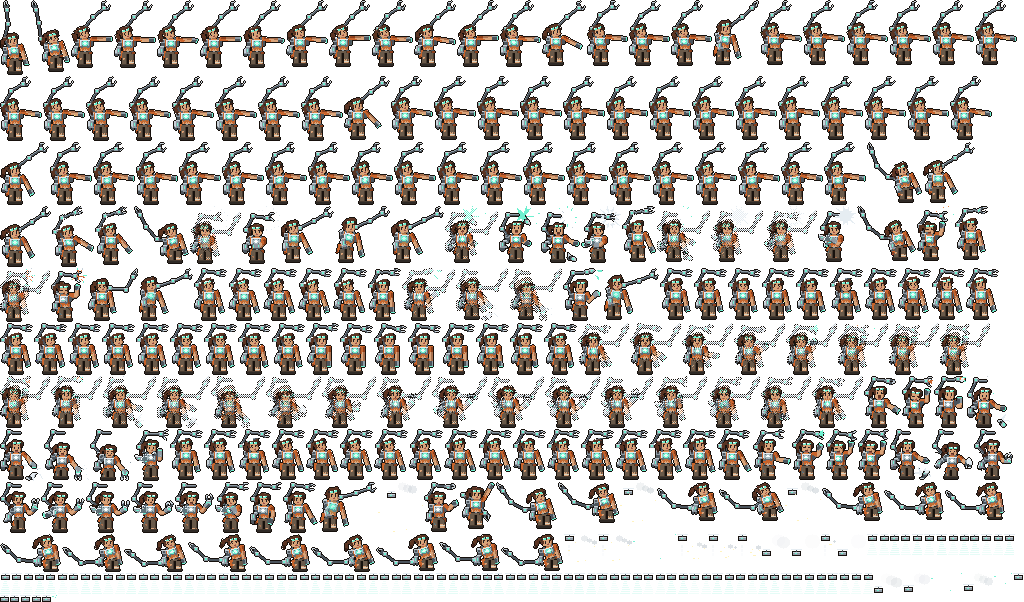
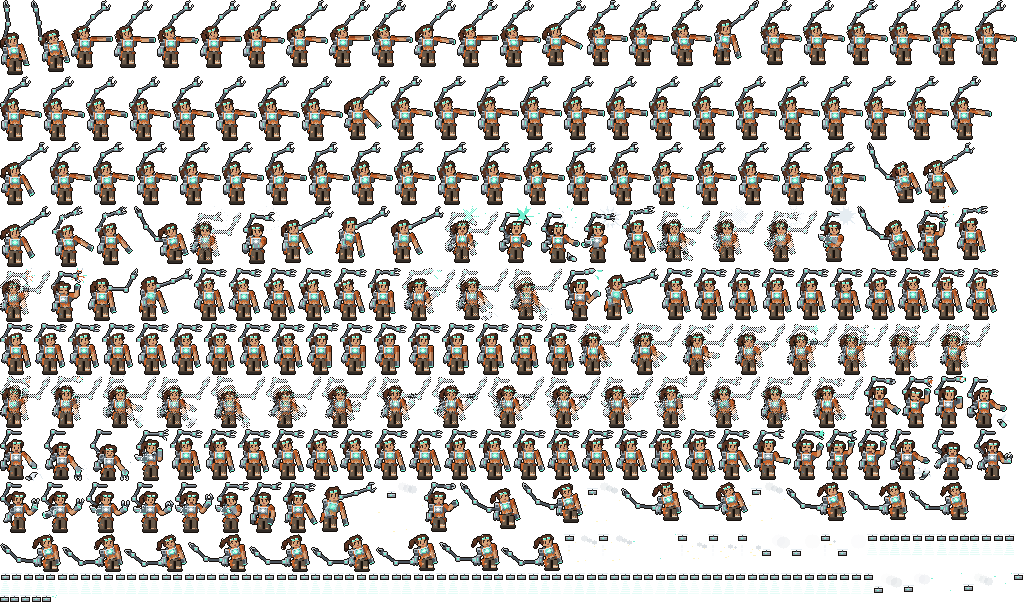
Use the arched arm in the way into and out of Tilly's act
tolift and toidle still pointed at the rig's frame of the old act, which has the
straight pole, so the arm flipped up for one frame at the start and the end of
the act. They now lead to and from the first and last frame of the new act.

Claude-Session: https://claude.ai/code/session_01Rn1Tt6QxJ17sB2a88PmyKo

Changed region(s): [[0.4375, 0.7774, 1.0, 0.897]]

diff --git a/docs/design/heroes/tools/pixellab-act.py b/docs/design/heroes/tools/pixellab-act.py
@@ -281,6 +281,8 @@ def main() -> None:
     animations["tilly.act"] = act
     idle_first = animations["tilly.idle"][0]
     ready_picture = whole_frame(sheet, data, ready)
+    animations["tilly.tolift"] = [idle_first, act[0]]  # the two poses are nearly the same, so there is nothing to mix
+    animations["tilly.toidle"] = [act[-1], idle_first]
 
     bridge = []
     for index, moment in enumerate(act):  # the bridge: the pose of the act, then half way into the ready pose, then the ready pose begins
